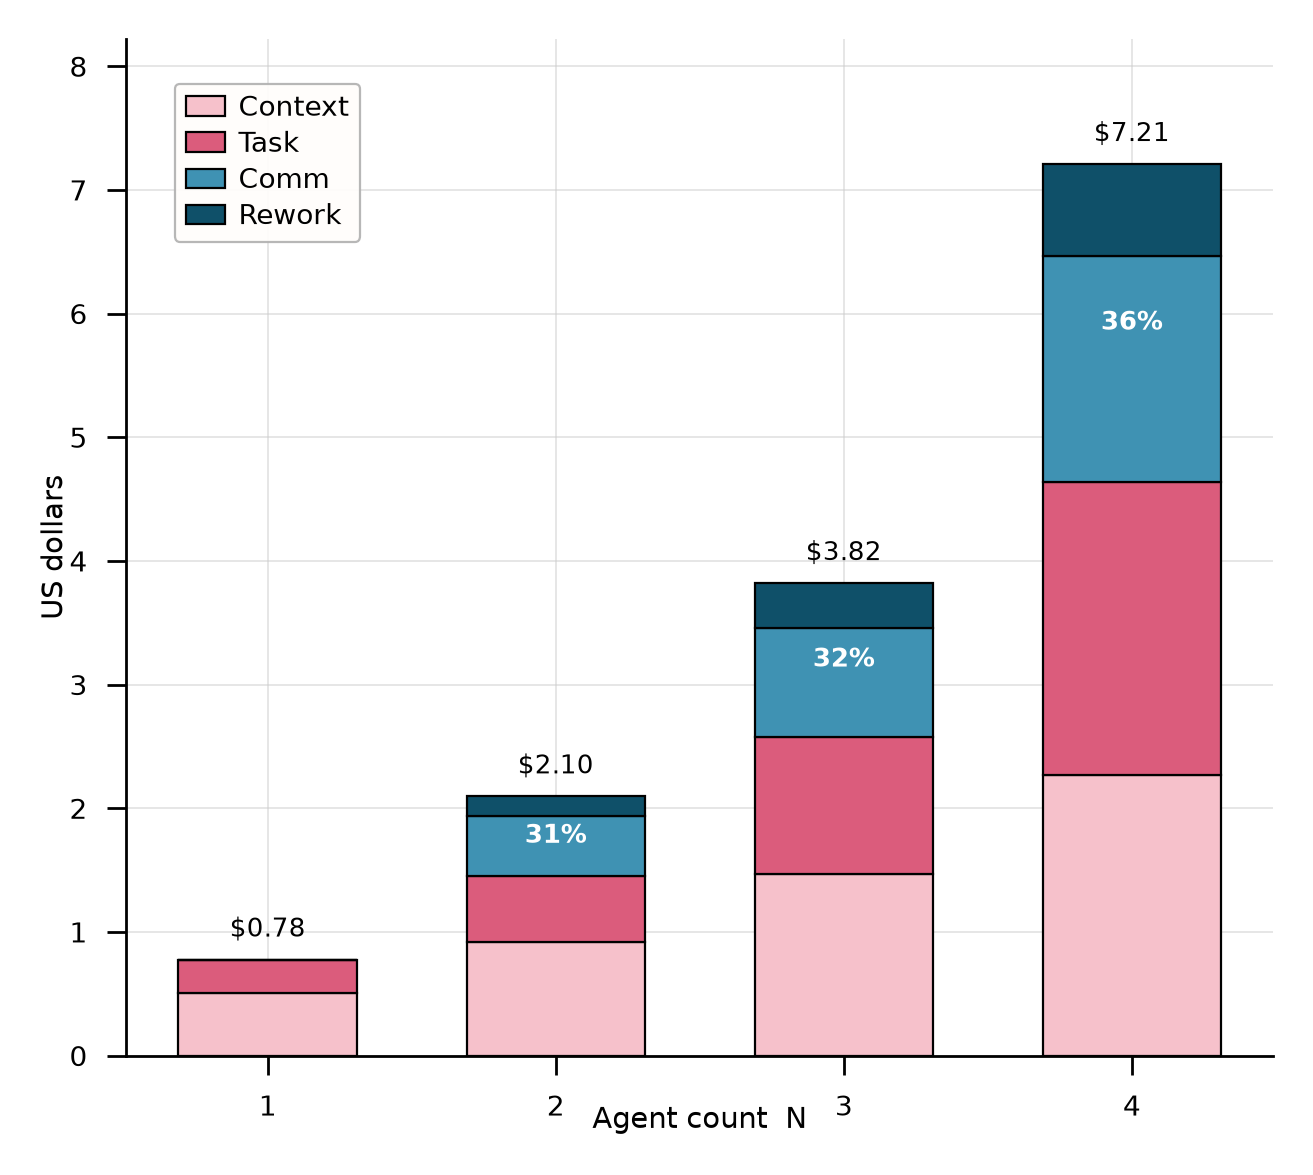
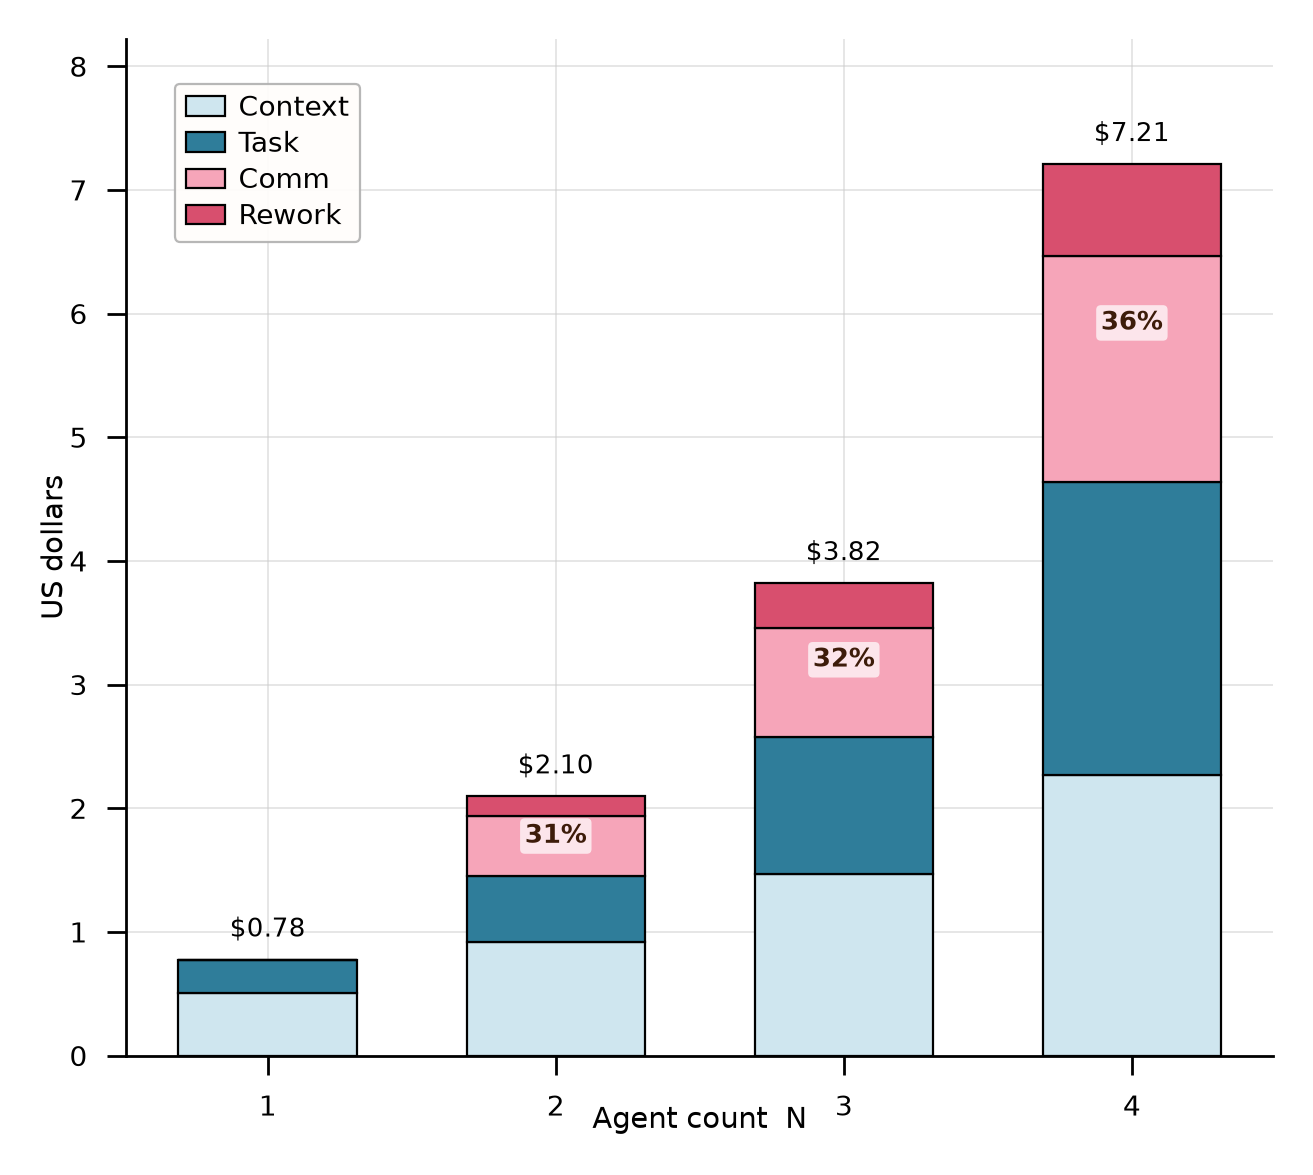
scaling fig2d: colour the decomposition by meaning
Cool sea blue = base work (context floor + task), receding; warm sunset
pink = the removable communication tax (comm + rework), advancing, so the
~third the paper highlights is the part that pops. Share label moves to
dark text on a faint white chip for readability on the pink.

diff --git a/masters_thesis/scaling_analysis/figures.py b/masters_thesis/scaling_analysis/figures.py
@@ -349,18 +349,21 @@ def figure2c(recs):
 def figure2d(accts):
     dec = calc7_cost_accounts(accts)
     ns = sorted(dec)
-    # base -> top: floor first, messaging-related on top.
-    # Two hue families: sunset pink = base work (context + task), sea blue =
-    # the communication tax (comm + rework) stacked on top, light -> dark within each.
-    PINK_LIGHT = "#f6c1cb"  # context (message-independent floor)
-    PINK_DEEP = "#db5c7c"   # task
-    BLUE_MID = "#3f92b3"    # comm
-    BLUE_DEEP = "#0f5069"   # rework
+    # base -> top: floor first, messaging-related on top. Colour encodes the
+    # paper's argument, not decoration: cool sea blue = the base work you would
+    # pay anyway (context = message-independent floor, then task), receding;
+    # warm sunset pink = the *removable* communication tax (comm + the rework it
+    # triggers), advancing, so the ~third that a better protocol could recover
+    # is the part that pops. Light -> dark within each hue.
+    BLUE_LIGHT = "#cfe6ef"  # context — message-independent floor
+    BLUE_DEEP = "#2f7d9a"   # task — the actual feature work
+    PINK_LIGHT = "#f6a5b9"  # comm — the messages themselves
+    PINK_DEEP = "#d84f6e"   # rework — edits the messages provoke
     segments = [
-        ("Context", "context", PINK_LIGHT),
-        ("Task", "task", PINK_DEEP),
-        ("Comm", "comm", BLUE_MID),
-        ("Rework", "rework", BLUE_DEEP),
+        ("Context", "context", BLUE_LIGHT),
+        ("Task", "task", BLUE_DEEP),
+        ("Comm", "comm", PINK_LIGHT),
+        ("Rework", "rework", PINK_DEEP),
     ]
 
     fig, ax = plt.subplots(figsize=(3.7, 3.3))
@@ -378,13 +381,17 @@ def figure2d(accts):
         ax.annotate(f"${total:.2f}", (N, total), textcoords="offset points",
                     xytext=(0, 3), ha="center", va="bottom", fontsize=4.7,
                     color="black", fontname="Helvetica")
-        # comm+rework share, centred on the messaging-related cap (skip N=1: 0%)
+        # comm+rework share = the removable communication tax, labelled on the
+        # pink cap. Dark text on a faint white chip so it reads on either pink
+        # shade (skip N=1, where the tax is 0%).
         cap = dec[N]["comm"] + dec[N]["rework"]
         if cap > 0:
             y = total - cap / 2
             ax.annotate(f"{dec[N]['comm_rework_share']*100:.0f}%", (N, y),
-                        ha="center", va="center", fontsize=4.7, color="white",
-                        fontweight="bold", fontname="Helvetica")
+                        ha="center", va="center", fontsize=4.7, color=INK,
+                        fontweight="bold", fontname="Helvetica",
+                        bbox=dict(boxstyle="round,pad=0.18", fc="white",
+                                  ec="none", alpha=0.72))
 
     ax.set_ylim(0, max(dec[N]["total"] for N in ns) * 1.14)
     handles = [Patch(facecolor=c, edgecolor="black", linewidth=0.4, label=lbl)
